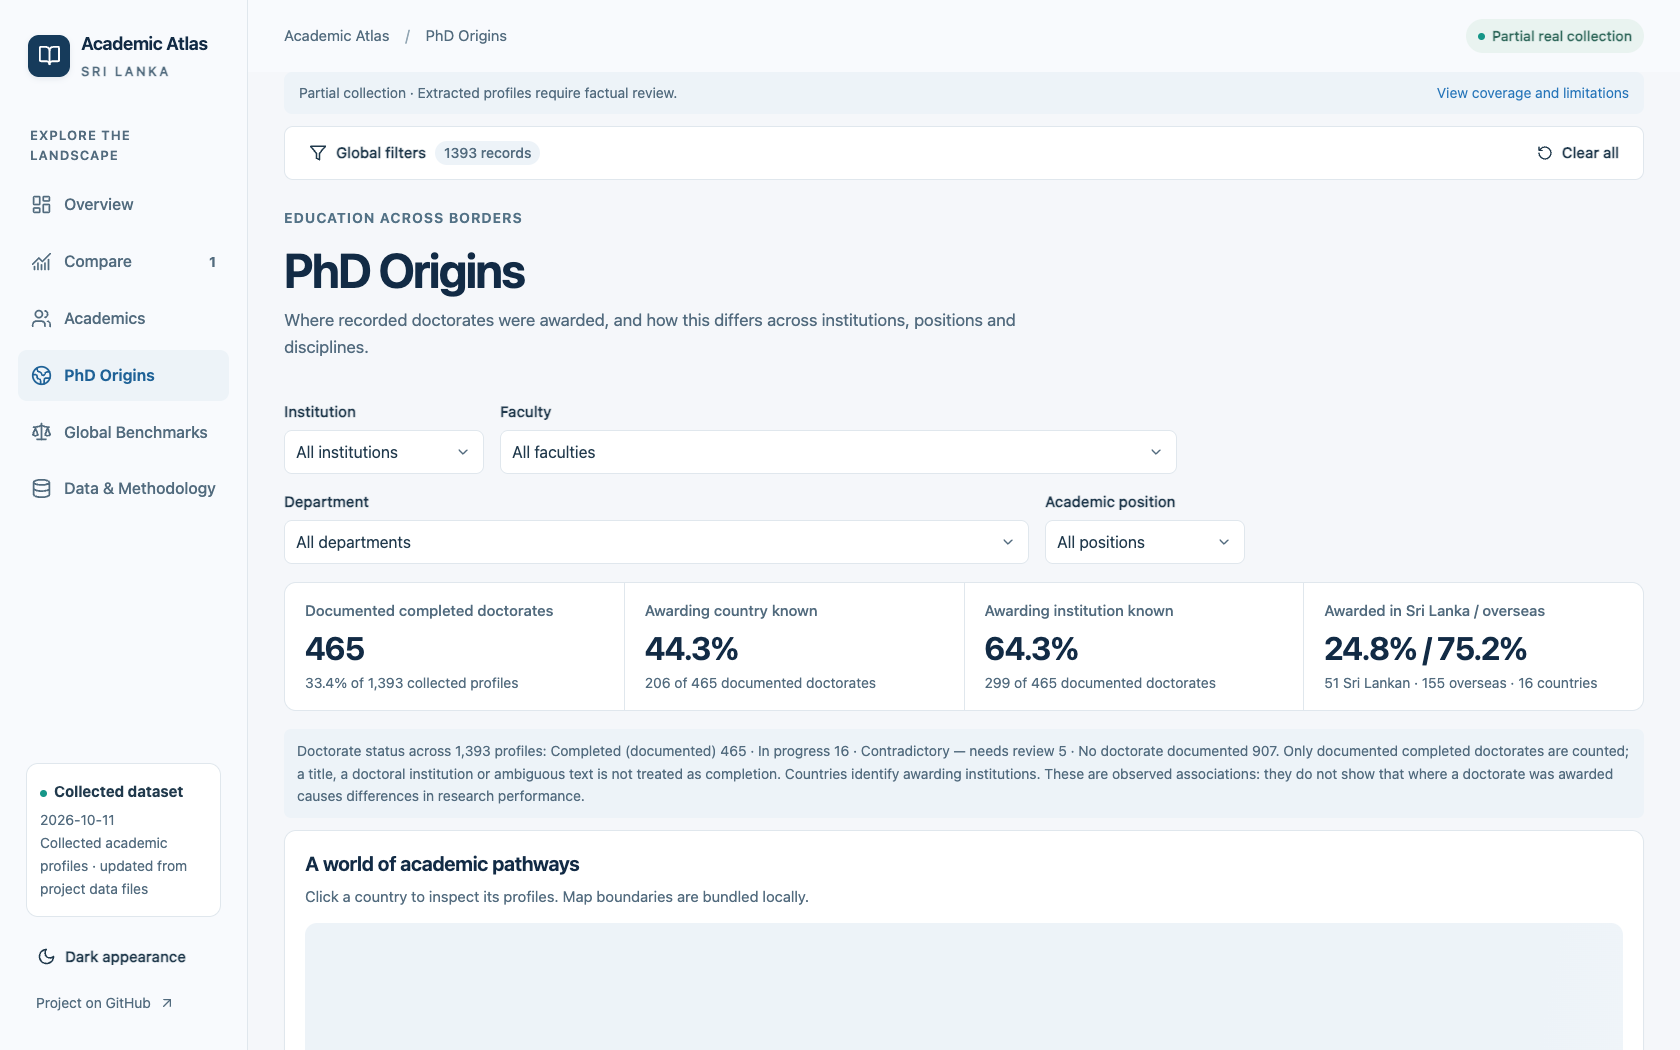
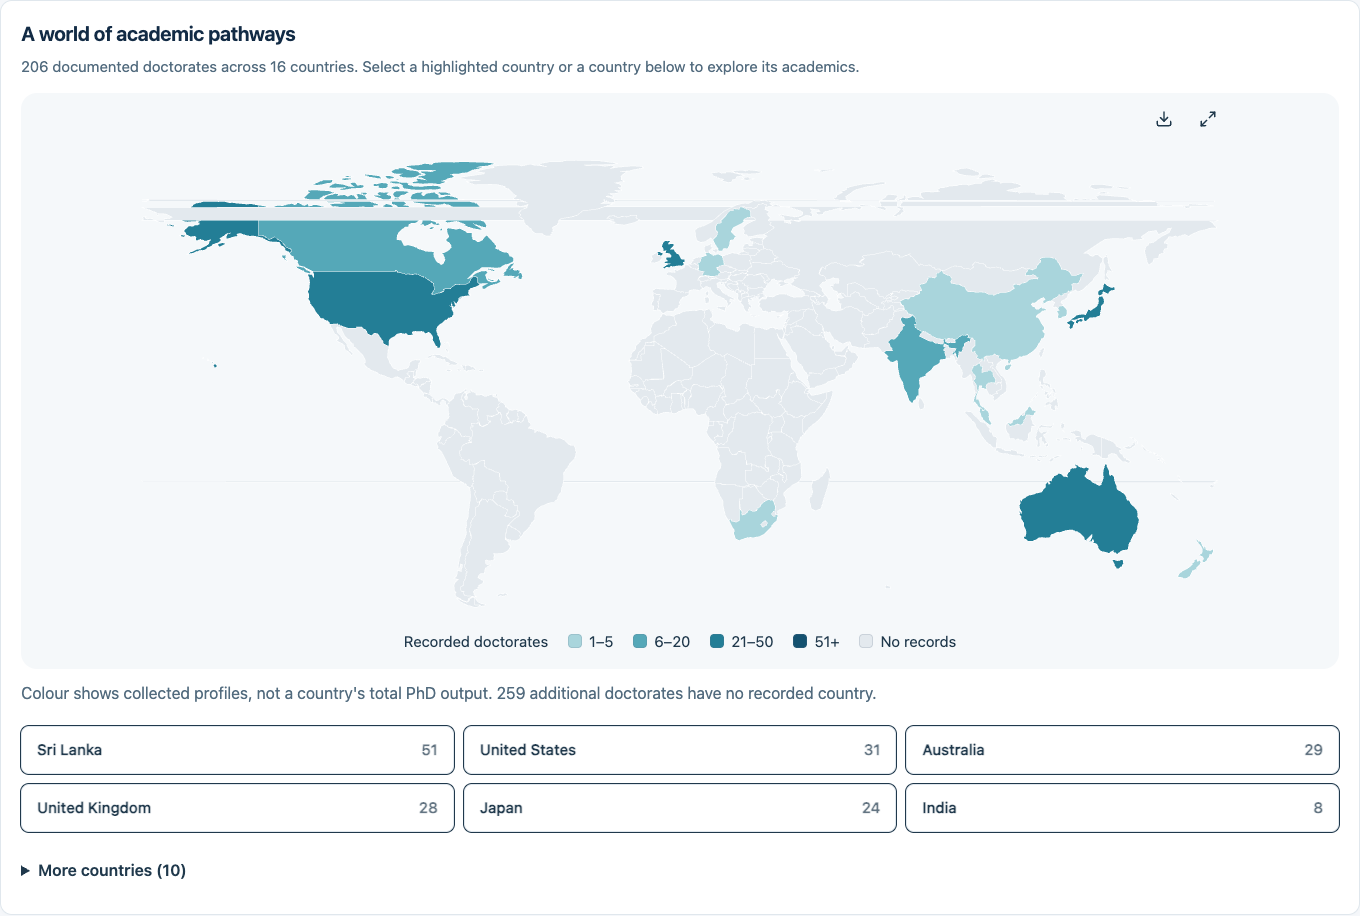
Make README concise with refreshed screenshots and public-data note

diff --git a/tests/audit.spec.ts b/tests/audit.spec.ts
@@ -195,7 +195,8 @@ test("real-data screenshots for the published README", async ({ page }) => {
   await page.setViewportSize({ width: 1680, height: 1050 });
   await page.screenshot({ path: "docs/screenshots/comparison-studio.png" });
   await page.getByRole("link", { name: "PhD Origins", exact: true }).click();
-  await page.screenshot({ path: "docs/screenshots/phd-origins.png" });
+  await expect(page.getByRole("img", { name: "World map of PhD awarding countries" })).toBeVisible();
+  await page.locator(".card").filter({ has: page.getByRole("heading", { name: "A world of academic pathways" }) }).screenshot({ path: "docs/screenshots/phd-origins.png" });
   await page.setViewportSize({ width: 390, height: 844 });
   await page.goto("./#/academics/SL-ec237eee4737");
   await page.screenshot({ path: "docs/screenshots/person-mobile.png" });

diff --git a/README.md b/README.md
@@ -1,106 +1,52 @@
 # Sri Lanka Academic Atlas
 
-Explore Sri Lankan academic profiles, compare peer groups, and keep research data coverage visible.
+Explore academics, compare peer groups, and discover where their PhDs were awarded.
 
-**[Open the website](https://maninka123.github.io/academic-lens-lk/)** · [Editable dataset guide](Data%20files/README.md) · [Collection prompt](DATA_COLLECTION_PROMPT.md)
+**[Open the app](https://maninka123.github.io/academic-lens-lk/)** · [Dataset guide](Data%20files/README.md) · [Full documentation](docs/PROJECT_GUIDE.md)
 
-![Academic Atlas overview](docs/screenshots/overview.png)
+<!-- dataset-summary:start -->
+**1,393 Sri Lankan profiles · 12 institutions · 1,630 international benchmark profiles.** Partial collection, updated 11 October 2026. [Coverage report](reports/validation-report.md).
+<!-- dataset-summary:end -->
 
-## What you can do
+- Search people and inspect qualifications, research links and peer comparisons.
+- Compare universities, faculties and departments; explore global benchmarks.
+- Filter, pin, share and export. Desktop-first, mobile-friendly.
 
-- Compare institutions, faculties, departments, fields, ranks, qualifications, PhD origins and custom groups.
-- Pin academics across chart changes and inspect their values, peer statistics and percentile positions.
-- Switch between appropriate totals, means, medians and distributions; compare pooled academics with equal university weighting.
-- Explore scatter/bubble plots, boxes, histograms, composition charts, heatmaps and treemaps.
-- Search every person by name, open their full profile, and follow their university → faculty → department hierarchy. Profile charts compare the same position, qualification, both, or PhD holders at every level.
-- Benchmark Sri Lanka internationally on **Global Benchmarks**: 1,630 sampled Computer Science and Physics academics from 41 universities in seven countries (USA, Australia, China, India, Canada, France, Germany), grouped into QS 2027 elite, middle and lower tiers. Compare Sri Lanka against each tier, by country and university, and against QS position; the Comparison Studio can add the tiers or the benchmark universities as extra groups.
-- Explore a locally bundled world map and PhD Sankey. Illustrated profile placeholders reflect documented qualifications and positions; appearance styles are user selected, with no gender inference.
-- Save custom groups in your browser, share configurations by URL, and export charts as PNG or records as CSV.
-- Keep people without a documented department at faculty level, with no invented department groups.
-- Use light/dark appearance, keyboard-accessible fullscreen charts, and readable desktop, tablet and mobile layouts.
+## Screenshots
 
-![Comparison Studio](docs/screenshots/comparison-studio.png)
+![Overview](docs/screenshots/overview.png)
 
-![Individual profile and peer comparisons](docs/screenshots/person-profile.png)
+| Compare academics | Individual profiles |
+| --- | --- |
+| ![Comparison Studio](docs/screenshots/comparison-studio.png) | ![Academic profile](docs/screenshots/person-profile.png) |
 
-[Interface audit and edge-case coverage](docs/AUDIT.md)
+![PhD origins map](docs/screenshots/phd-origins.png)
+
+<details>
+<summary>Mobile preview</summary>
+
+<img src="docs/screenshots/mobile.png" alt="Academic Atlas on mobile" width="320" />
+
+</details>
 
 ## Run locally
 
-Requires Node.js 22.12+.
+Node.js 22.12+; no backend required.
 
 ```sh
 npm ci
 npm run dev
 ```
 
-Open the URL shown by Vite. The application is React + TypeScript + Vite, with Tailwind, shadcn-style Radix components, Apache ECharts, TanStack Table, Zustand and HashRouter. All dashboard data and map assets are local; no backend, accounts or paid APIs are required.
+Edit the CSVs in `Data files/`, then run `npm run data:import`. Validate with `npm test` and `npm run build`.
 
-```sh
-npm run typecheck
-npm test                 # Statistics and component interactions
-npm run build            # Static production output in dist/
-npm run preview
-npm run test:e2e          # Isolated Chrome browser checks and screenshot capture
-```
+## Data notes
 
-Browser tests use installed Chrome. To use Playwright's bundled Chromium instead, remove `channel: 'chrome'` from `playwright.config.ts` and run `npx playwright install chromium`.
+Missing values stay missing. Comparisons show coverage and source information; citation counts are not a measure of overall academic quality. **Dr Name*** means a documented completed research doctorate; medical qualifications alone do not qualify under this display convention.
 
-## Update the data
+[Methodology & setup](docs/PROJECT_GUIDE.md) · [Data policy](docs/DATA_POLICY.md) · [Collection prompt](DATA_COLLECTION_PROMPT.md)
 
-Edit the authoritative CSVs in `Data files/universities/<institution>/faculties/…`. Each academic appears once, in either a faculty CSV without a named department or a department CSV. Keep IDs and the existing header. Blank numeric cells mean unknown; zero requires evidence.
+GitHub Pages releases: **Actions → Build, check and deploy GitHub Pages → Run workflow**. Map boundaries: [Natural Earth / world-atlas](https://github.com/topojson/world-atlas).
 
-```sh
-npm run data:import
-npm test
-npm run build
-```
-
-Optional `Data files/metadata.json` can configure collection dates and the metric window; `q1_methodology.md` documents any verified Q1 policy.
-
-The importer discovers new academic CSVs recursively and regenerates `public/data/{academics,universities,faculties,departments}.csv` and metadata. Duplicate IDs, malformed CSVs and invalid numeric values stop import. Update `Data files/field-mapping.json` for manual field classifications; ambiguous units stay Unmapped. See the [dataset guide](Data%20files/README.md) for folder rules and the [collection prompt](DATA_COLLECTION_PROMPT.md) for independent research work.
-
-<!-- dataset-summary:start -->
-**Snapshot partial-3dc1b1eb7d (collected 2026-10-11):** 1,393 collected academic profiles from 12 of 14 institutions in scope, across 59 faculties and 155 departments. 311 have a verified research identity, 264 verified employment and 297 at least one research metric; 16 need manual review. International benchmarks: 1,630 sampled academics from 41 universities in 7 countries. Collected profiles are not the total academic population. Full report: [reports/validation-report.md](reports/validation-report.md).
-<!-- dataset-summary:end -->
-
-The website always uses the collected dataset. Visitors cannot switch datasets, and shared links cannot change the data source. Synthetic records live only in `tests/fixtures/` for browser testing and are excluded from production.
-
-## International baselines
-
-`Data files/international/` holds the benchmark samples in the same 32-column layout, nested by country, with the QS 2027 rank and tier of each university, the source rosters and the OpenAlex match evidence. See its [README](Data%20files/international/README.md) for selection, sampling and limitations. To rebuild them:
-
-```sh
-pip install requests beautifulsoup4 pypinyin
-python scripts/baselines/build_international.py
-python scripts/baselines/sri_lanka_openalex.py   # optional: like-for-like OpenAlex metrics for Sri Lanka
-npm run data:import
-```
-
-OpenAlex responses are cached in `scripts/baselines/_cache/`. Set `OPENALEX_API_KEY` to go beyond the small anonymous daily budget.
-
-## GitHub Pages
-
-The workflow in `.github/workflows/deploy.yml` imports the current editable data, checks the public-asset allowlist, validates TypeScript, runs tests, builds, checks the built site for internal files or credentials, and uploads it as the `public-site` artifact on every push and pull request. **Deployment is manual:** inspect the artifact, then run the workflow from the Actions tab ("Run workflow") to publish. Set repository **Settings → Pages → Source → GitHub Actions**.
-
-The site is public even though the repository is private. Only allowlisted files and columns are published; internal evidence and review files stay in `Data files/`. See [docs/DATA_POLICY.md](docs/DATA_POLICY.md) for what is published, attribution, reuse conditions and the correction/removal process, and [docs/ARCHITECTURE.md](docs/ARCHITECTURE.md) for the data flow and how to add country datasets.
-
-Vite uses `/academic-lens-lk/` as its base; HashRouter keeps deep links working on Pages. If you rename the repository, update `vite.config.ts`. Commit source/data changes and let the workflow rebuild; `dist/`, dependencies, local test traces and original collection backups are excluded from Git.
-
-## Interpreting comparisons
-
-Missing values are excluded from metric denominators and never treated as zero. Primary comparisons use a single bibliometric provider (Google Scholar, ResearchGate or OpenAlex); mixed providers are an explicitly labelled exploratory mode. Groups with fewer than 10 valid values are flagged and never ranked, and logarithmic charts leave zero values out (reported beside the chart) instead of shifting them. Every comparison shows eligible records, valid values, completeness, provider and measurement date, and statistics export as CSV with the selection, metric definition, provider, counts and dataset version. Percentiles use midrank ties and are suppressed below five valid peers. Quartiles use linear interpolation; box whiskers show observed min/max. Equal university weight means the arithmetic mean of available university statistics. PhD percentages use documented qualifications; unknowns remain visible in composition charts.
-
-Combined career publication/citation totals are **not** a university's historical output and may repeat coauthored work. h-index values are never summed. Five-year citations refer to citations received in 2021–2025; five-year Q1 refers to qualifying papers published in that period. Citation position does not measure overall academic or teaching quality. Full definitions and completeness tables are on **Data & Methodology**.
-
-World boundaries: Natural Earth via [world-atlas](https://github.com/topojson/world-atlas), bundled locally. Screenshots show the real collected dataset.
-
-## Display names and verification
-
-The app displays **Dr Name*** only for a documented completed PhD or higher research doctorate. The asterisk identifies that evidence. Medical qualifications alone, ongoing doctorates and a source’s Dr/Professor title do not qualify under this project’s display convention. Other profiles show an honorific only when the source states one (Mr, Mrs, Ms or Miss); otherwise the plain published name is used. No honorific or gender is inferred. Names contain no position or qualification suffix; published source names and positions remain visible in the profile and unchanged in the editable CSVs.
-
-Research links show their recorded verification status. Metric evidence lists the platform and retrieval date for each populated field. Old profile URLs and pinned identities resolve through documented aliases. The data review notes are in [docs/DATA_UPDATE_REVIEW.md](docs/DATA_UPDATE_REVIEW.md).
-
-Comparison presets provide starting points; chart values use one decimal place while calculations retain full precision. Academic Explorer supports column text filters and numeric ranges, and CSV export respects those filters.
-
-Profile placeholders show initials only; they never depict appearance or imply gender. Each profile shows compact evidence badges (verified, recorded but unverified, needs review, not documented) beside identity, employment, doctorate and metric values, with the last checked date.
+> [!NOTE]
+> This project uses only publicly available information. Data may be incomplete, outdated or incorrect—please verify details with the original sources.

diff --git a/docs/PROJECT_GUIDE.md b/docs/PROJECT_GUIDE.md
@@ -1,0 +1,106 @@
+# Sri Lanka Academic Atlas
+
+Explore Sri Lankan academic profiles, compare peer groups, and keep research data coverage visible.
+
+**[Open the website](https://maninka123.github.io/academic-lens-lk/)** · [Editable dataset guide](../Data%20files/README.md) · [Collection prompt](../DATA_COLLECTION_PROMPT.md)
+
+![Academic Atlas overview](screenshots/overview.png)
+
+## What you can do
+
+- Compare institutions, faculties, departments, fields, ranks, qualifications, PhD origins and custom groups.
+- Pin academics across chart changes and inspect their values, peer statistics and percentile positions.
+- Switch between appropriate totals, means, medians and distributions; compare pooled academics with equal university weighting.
+- Explore scatter/bubble plots, boxes, histograms, composition charts, heatmaps and treemaps.
+- Search every person by name, open their full profile, and follow their university → faculty → department hierarchy. Profile charts compare the same position, qualification, both, or PhD holders at every level.
+- Benchmark Sri Lanka internationally on **Global Benchmarks**: 1,630 sampled Computer Science and Physics academics from 41 universities in seven countries (USA, Australia, China, India, Canada, France, Germany), grouped into QS 2027 elite, middle and lower tiers. Compare Sri Lanka against each tier, by country and university, and against QS position; the Comparison Studio can add the tiers or the benchmark universities as extra groups.
+- Explore a locally bundled world map and PhD Sankey. Profile placeholders use initials, with no gender inference.
+- Save custom groups in your browser, share configurations by URL, and export charts as PNG or records as CSV.
+- Keep people without a documented department at faculty level, with no invented department groups.
+- Use light/dark appearance, keyboard-accessible fullscreen charts, and readable desktop, tablet and mobile layouts.
+
+![Comparison Studio](screenshots/comparison-studio.png)
+
+![Individual profile and peer comparisons](screenshots/person-profile.png)
+
+[Interface audit and edge-case coverage](AUDIT.md)
+
+## Run locally
+
+Requires Node.js 22.12+.
+
+```sh
+npm ci
+npm run dev
+```
+
+Open the URL shown by Vite. The application is React + TypeScript + Vite, with Tailwind, shadcn-style Radix components, Apache ECharts, TanStack Table, Zustand and HashRouter. All dashboard data and map assets are local; no backend, accounts or paid APIs are required.
+
+```sh
+npm run typecheck
+npm test                 # Statistics and component interactions
+npm run build            # Static production output in dist/
+npm run preview
+npm run test:e2e          # Isolated Chrome browser checks and screenshot capture
+```
+
+Browser tests use installed Chrome. To use Playwright's bundled Chromium instead, remove `channel: 'chrome'` from `playwright.config.ts` and run `npx playwright install chromium`.
+
+## Update the data
+
+Edit the authoritative CSVs in `Data files/universities/<institution>/faculties/…`. Each academic appears once, in either a faculty CSV without a named department or a department CSV. Keep IDs and the existing header. Blank numeric cells mean unknown; zero requires evidence.
+
+```sh
+npm run data:import
+npm test
+npm run build
+```
+
+Optional `Data files/metadata.json` can configure collection dates and the metric window; `q1_methodology.md` documents any verified Q1 policy.
+
+The importer discovers new academic CSVs recursively and regenerates `public/data/{academics,universities,faculties,departments}.csv` and metadata. Duplicate IDs, malformed CSVs and invalid numeric values stop import. Update `Data files/field-mapping.json` for manual field classifications; ambiguous units stay Unmapped. See the [dataset guide](../Data%20files/README.md) for folder rules and the [collection prompt](../DATA_COLLECTION_PROMPT.md) for independent research work.
+
+<!-- dataset-summary:start -->
+**Snapshot partial-3dc1b1eb7d (collected 2026-10-11):** 1,393 collected academic profiles from 12 of 14 institutions in scope, across 59 faculties and 155 departments. 311 have a verified research identity, 264 verified employment and 297 at least one research metric; 16 need manual review. International benchmarks: 1,630 sampled academics from 41 universities in 7 countries. Collected profiles are not the total academic population. Full report: [reports/validation-report.md](../reports/validation-report.md).
+<!-- dataset-summary:end -->
+
+The website always uses the collected dataset. Visitors cannot switch datasets, and shared links cannot change the data source. Synthetic records live only in `tests/fixtures/` for browser testing and are excluded from production.
+
+## International baselines
+
+`Data files/international/` holds the benchmark samples in the same 32-column layout, nested by country, with the QS 2027 rank and tier of each university, the source rosters and the OpenAlex match evidence. See its [README](../Data%20files/international/README.md) for selection, sampling and limitations. To rebuild them:
+
+```sh
+pip install requests beautifulsoup4 pypinyin
+python scripts/baselines/build_international.py
+python scripts/baselines/sri_lanka_openalex.py   # optional: like-for-like OpenAlex metrics for Sri Lanka
+npm run data:import
+```
+
+OpenAlex responses are cached in `scripts/baselines/_cache/`. Set `OPENALEX_API_KEY` to go beyond the small anonymous daily budget.
+
+## GitHub Pages
+
+The workflow in `.github/workflows/deploy.yml` imports the current editable data, checks the public-asset allowlist, validates TypeScript, runs tests, builds, checks the built site for internal files or credentials, and uploads it as the `public-site` artifact on every push and pull request. **Deployment is manual:** inspect the artifact, then run the workflow from the Actions tab ("Run workflow") to publish. Set repository **Settings → Pages → Source → GitHub Actions**.
+
+The site is public even though the repository is private. Only allowlisted files and columns are published; internal evidence and review files stay in `Data files/`. See [docs/DATA_POLICY.md](DATA_POLICY.md) for what is published, attribution, reuse conditions and the correction/removal process, and [docs/ARCHITECTURE.md](ARCHITECTURE.md) for the data flow and how to add country datasets.
+
+Vite uses `/academic-lens-lk/` as its base; HashRouter keeps deep links working on Pages. If you rename the repository, update `vite.config.ts`. Commit source/data changes and let the workflow rebuild; `dist/`, dependencies, local test traces and original collection backups are excluded from Git.
+
+## Interpreting comparisons
+
+Missing values are excluded from metric denominators and never treated as zero. Primary comparisons use a single bibliometric provider (Google Scholar, ResearchGate or OpenAlex); mixed providers are an explicitly labelled exploratory mode. Groups with fewer than 10 valid values are flagged and never ranked, and logarithmic charts leave zero values out (reported beside the chart) instead of shifting them. Every comparison shows eligible records, valid values, completeness, provider and measurement date, and statistics export as CSV with the selection, metric definition, provider, counts and dataset version. Percentiles use midrank ties and are suppressed below five valid peers. Quartiles use linear interpolation; box whiskers show observed min/max. Equal university weight means the arithmetic mean of available university statistics. PhD percentages use documented qualifications; unknowns remain visible in composition charts.
+
+Combined career publication/citation totals are **not** a university's historical output and may repeat coauthored work. h-index values are never summed. Five-year citations refer to citations received in 2021–2025; five-year Q1 refers to qualifying papers published in that period. Citation position does not measure overall academic or teaching quality. Full definitions and completeness tables are on **Data & Methodology**.
+
+World boundaries: Natural Earth via [world-atlas](https://github.com/topojson/world-atlas), bundled locally. Screenshots show the real collected dataset.
+
+## Display names and verification
+
+The app displays **Dr Name*** only for a documented completed PhD or higher research doctorate. The asterisk identifies that evidence. Medical qualifications alone, ongoing doctorates and a source’s Dr/Professor title do not qualify under this project’s display convention. Other profiles show an honorific only when the source states one (Mr, Mrs, Ms or Miss); otherwise the plain published name is used. No honorific or gender is inferred. Names contain no position or qualification suffix; published source names and positions remain visible in the profile and unchanged in the editable CSVs.
+
+Research links show their recorded verification status. Metric evidence lists the platform and retrieval date for each populated field. Old profile URLs and pinned identities resolve through documented aliases. The data review notes are in [docs/DATA_UPDATE_REVIEW.md](DATA_UPDATE_REVIEW.md).
+
+Comparison presets provide starting points; chart values use one decimal place while calculations retain full precision. Academic Explorer supports column text filters and numeric ranges, and CSV export respects those filters.
+
+Profile placeholders show initials only; they never depict appearance or imply gender. Each profile shows compact evidence badges (verified, recorded but unverified, needs review, not documented) beside identity, employment, doctorate and metric values, with the last checked date.
